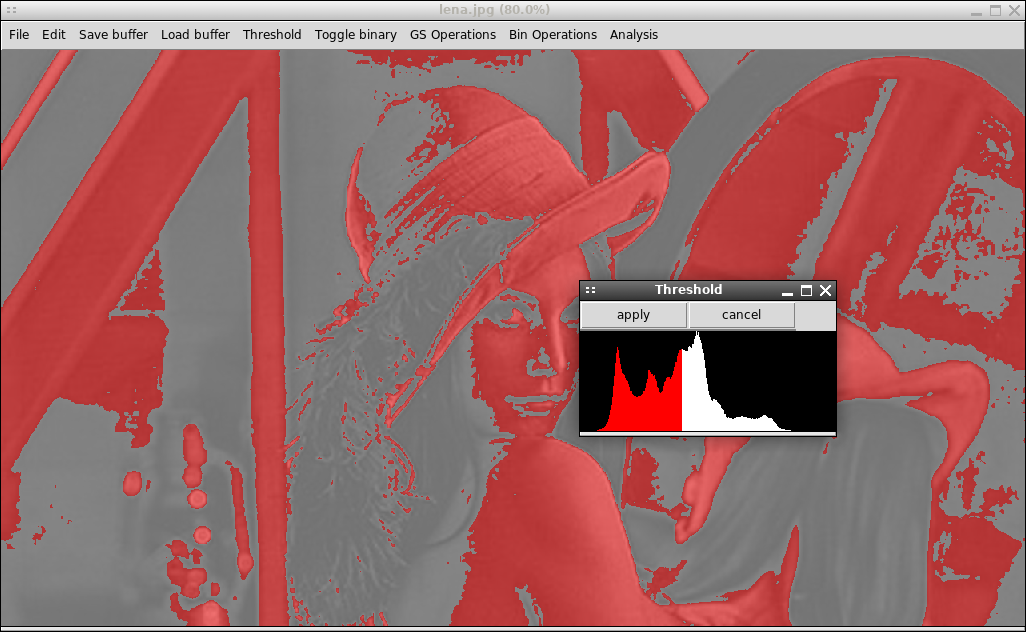
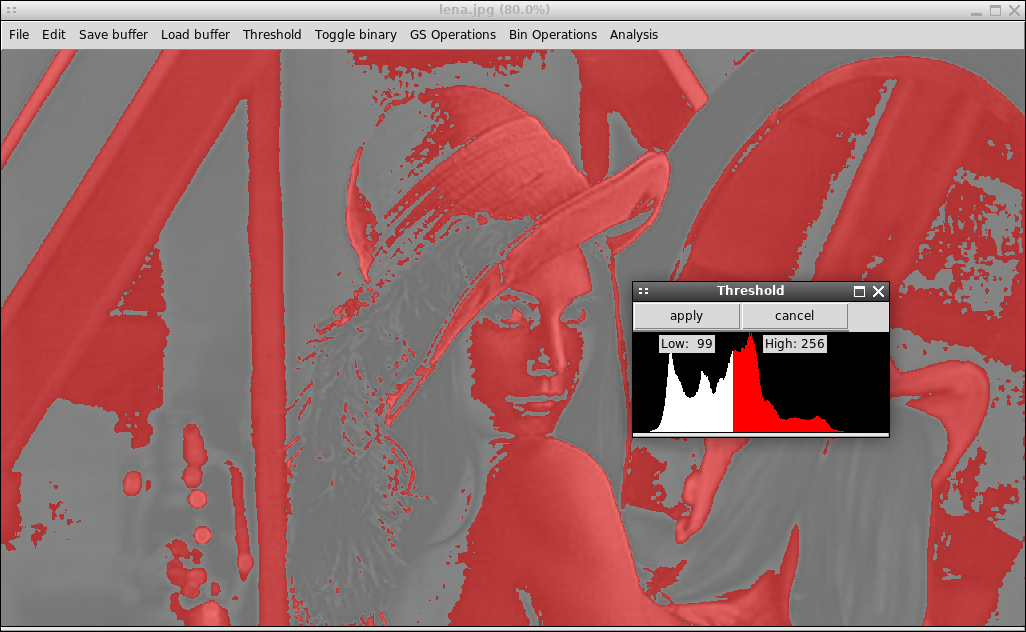
bugfixes, some new features

diff --git a/main.py b/main.py
@@ -19,7 +19,7 @@ import matplotlib.pyplot as plt
 from dialog_window import dialog_window
 from tools import visual_histogram, unit_disk, watershed_pts, grid, \
         PIL_filters, filter, shade_by_size, linbin, logbin, \
-        highest_2nd_derivative
+        highest_2nd_derivative, gs_fft, gs_ifft
 
 logger=True
 
@@ -169,6 +169,14 @@ class Imagewindow:
             self.openfile(filename)
         master.mainloop()
 
+    def clickpt(self, x, y):
+        # Takes event arguments, returns position on image
+        difx = (self.master.winfo_width()-self.resize_ratio*self.gimg.width)
+        dify = (self.master.winfo_height()-self.resize_ratio*self.gimg.height)
+        xout = int((x - (difx>0)*difx/2)/self.resize_ratio)
+        yout = int((y - (dify>0)*dify/2)/self.resize_ratio)
+        return xout, yout
+
     def update(self, saveundo=True):
 
         if saveundo:
@@ -278,8 +286,7 @@ class Imagewindow:
             del draw
 
         def click(event):
-            point_list.append((int(event.x/self.resize_ratio), 
-                int(event.y/self.resize_ratio)))
+            point_list.append(self.clickpt(event.x, event.y))
             point_self()
 
         def undo_pt(event=None):
@@ -341,14 +348,8 @@ class Imagewindow:
                 if self.mval > self.uval:
                     self.uval=self.mval
             elif mv==1:
-                # this gives the default self.mval (cut-off value) as the maximum value position in the histogram
-                # this isn't ideal but it's better than no default value at all
-                #self.mval = self.gimg.histogram().index(max(self.gimg.histogram()))
-                # alternate solution: highest 2nd derivative
-                # if it works create self.logging for this
-                # split into two lines where this function is called if mval is
-                # unchanged
                 self.mval = highest_2nd_derivative(self.gimg)
+            mv_label['text'] = "Low:  "+str(self.mval)
                 
             colors = gold.convert(mode="RGBA").split()
             colors[0].paste(gold.point(
@@ -377,6 +378,7 @@ class Imagewindow:
             self.uval = event.x
             if self.uval<self.mval:
                 self.uval=self.mval
+            uv_label['text'] = "High: "+str(self.uval)
             click(mv=2)
 
         def apply(event=None):
@@ -399,7 +401,11 @@ class Imagewindow:
         tkpi = PIL.ImageTk.PhotoImage(hist_img)
         label_image = Tkinter.Label(histogram_window, image=tkpi)
         label_image.place(x=0,y=30,width=hist_img.size[0],height=hist_img.size[1])
+        mv_label = Tkinter.Label(histogram_window, text = "Low:  "+str(self.mval))
+        uv_label = Tkinter.Label(histogram_window, text = "High: "+str(self.uval))
         
+        mv_label.grid(row=2, column=0)
+        uv_label.grid(row=2, column=1)
         click(mv=1)
         histogram_window.mainloop()
 
@@ -513,19 +519,12 @@ class Imagewindow:
             top.destroy()
             self.update()
             
-        #menubar = Tkinter.Menu(self.master)
-        #menubar.add_command(label="apply", command=apply)
-        #menubar.add_command(label="cancel", command=cancel)
-        #top.config(menu=menubar)
         sqrtbtn = Tkinter.Button(top, text="sqrt", width=10, 
                 command=lambda : transform("sqrt"))
         logbtn = Tkinter.Button(top, text="log", width=10, 
                 command=lambda : transform("log"))
         squarebtn = Tkinter.Button(top, text="square", width=10, 
                 command=lambda : transform("square"))
-        #sqrtbtn.pack()
-        #logbtn.pack()
-        #squarebtn.pack()
         sqrtbtn.grid(row=2, column=0)
         logbtn.grid(row=3, column=0)
         squarebtn.grid(row=4, column=0)
@@ -560,8 +559,7 @@ class Imagewindow:
             ma = np.ndarray.copy(mao)
             tmp = self.bimg.copy()
             if event!=None:
-                x = int(event.x/self.resize_ratio)
-                y = int(event.y/self.resize_ratio)
+                x,y = self.clickpt(event.x, event.y)
                 if ma[y,x]!=0:
                     ma[ma!=ma[y,x]] = 0
                     ma[ma==ma[y,x]] = 1
@@ -753,8 +751,6 @@ class Imagewindow:
 
     def greyscale_arithmetic(self):
         # TODO: Add exception for missing gimg
-        #       Add logger
-        #       
         g_window = dialog_window(self.master)
         fn_string = Tkinter.StringVar()
         fn_string.set("a")
@@ -834,22 +830,14 @@ class Imagewindow:
         self.update()
 
     def fft(self):
-        #Add logging
-        fftvals = np.fft.fftshift(np.fft.fft2(self.gimg))
-        freq = np.abs(fftvals)
-        self.phase = np.angle(fftvals)
-        freq = np.log(freq+np.e)
-        self.fftmax = np.max(freq)
-        freq = freq*255./self.fftmax
+        #Warning: Converting the fft into greyscale (0-255 integers) 
+        #destroys some information
+        freq, self.phase, self.fftmax = gs_fft(self.gimg)
         self.gimg.putdata(freq.flatten())
         self.update()
         if logger:
-            self.logging("fftvals = np.fft.fftshift(np.fft.fft2(gimg))")
-            self.logging("freq = np.log(np.abs(fftvals+np.e))")
-            self.logging("fftmax = np.max(freq)")
-            self.logging("phase = np.angle(fftvals)")
-            self.logging("gimg.putdata((freq*255/fftmax).flatten())")
-            self.logging("# Warning, phase space cannot be modified")
+            self.logging("freq, phase, fftmax = gs_fft(gimg)")
+            self.logging("gimg.putdata(freq)")
 
     def ifft(self):
         try:
@@ -857,16 +845,12 @@ class Imagewindow:
         except AttributeError:
             print "# No phase data available"
             return
-        fftvals = np.array(self.gimg)
-        fftvals = ((np.exp(fftvals*self.fftmax/255))-np.e)
-        ifftvals = np.fft.ifft2(np.fft.ifftshift(fftvals*np.exp(1j*self.phase)))
+        ifftvals = gs_ifft(self.gimg, self.phase, self.fftmax)
         self.gimg.putdata(ifftvals.flatten())
-        self.phase = None
         self.update()
         if logger:
-            self.logging("fftvals = ((np.exp(fftmax/255))-np.e)")
-            self.logging("ifftvals = np.fft.ifft2(np.fft.ifftshift(fftvals*np.exp(1j*phase)))")
-            self.logging("gimg.putdata(ifftvals.flatten())")
+            self.logging("ifftvals = gs_ifft(self.gimg, self.phase, self.fftmax)")
+            self.logging("gimg.putdata(ifftvals)")
     
     def draw_center_circle(self):
         self.show_binary = 1
@@ -908,7 +892,10 @@ class Imagewindow:
         [listbox.insert(Tkinter.END, i) for i in objects]
         listbox.select_set(0)
         listbox.grid(row=2, column=1)
-        draw = PIL.ImageDraw.Draw(self.bimg)
+
+        clear_button = Tkinter.Button(line_dialog, text="Clear",
+                command = lambda x=None: self.draw_clear())
+        clear_button.grid(row=3, column=0)
         pts = [0,0]
         def apply(event=None):
             self.update()
@@ -922,9 +909,11 @@ class Imagewindow:
             line_dialog.destroy()
 
         def pick(event=None, point_num=[0]):
-            pts[point_num[0]] = [int(event.x/self.resize_ratio),int(event.y/self.resize_ratio)]
+            #pts[point_num[0]] = [int(event.x/self.resize_ratio),int(event.y/self.resize_ratio)]
+            pts[point_num[0]] = self.clickpt(event.x,event.y)
             point_num[0] += 1
             if point_num[0]==2:
+                draw = PIL.ImageDraw.Draw(self.bimg)
                 if objects[listbox.curselection()[0]]=="line":
                     draw.line(pts[0]+pts[1], fill=255*add.get())
                 elif objects[listbox.curselection()[0]]=="ellipse":
@@ -933,21 +922,21 @@ class Imagewindow:
                     draw.rectangle(pts[0]+pts[1], fill=255*add.get())
                 #Add logging here, maybe a buffer?
                 point_num[0] = 0
-                self.update(False)
-            
+                self.update()
+
         self.master.bind("<ButtonPress-1>", pick)
         line_dialog.setcancel(cancel)
         line_dialog.setapply(apply)
 
-    def draw_clear(self):
+    def draw_clear(self, update=True):
          #There may be a better way of doing this, give it thought later
          self.bimg = self.bimg.convert(mode='L').point(lambda p: 0).convert(mode='1')
-         self.update()
+         self.update(True)
             
     def logging(self, logstr, func=None):
         #We may want to use some other type of logging in the future
         print logstr
-
+    
         
 root = Tkinter.Tk()
 root.geometry('+%d+%d' % (100,100))

diff --git a/tools.py b/tools.py
@@ -27,18 +27,31 @@ def visual_histogram(img, lowval=None, highval=None):
     del draw
     return histimg
 
+def aver(hist, length):
+    avg = len(hist)*[0]
+    avval = 0
+    for i in range(length, len(hist)):
+        avval += hist[i]-hist[i-length]
+        avg[i-length/2] = avval/length
+    return avg
+
 def highest_2nd_derivative(img):
     # Input: List of length 256
-    # Output: Point of maximum second derivative
+    # Output: Point of maximum approximated second derivative
     deg = 4
-    def const(n):
-        return n*(n-1)
+    d = 2
+    padlength = 20
     hist = img.histogram()
     p = np.polyfit(range(256), hist, deg)
-    #pl = [12*p[0]*i**2 + 6*p[1]*i for i in range(256)]
-    pl = [sum([const(n)*p[deg-n]*i**(n-2) for n in range(3, deg+1)]) 
-            for i in range(256)]
-    return pl.index(max(pl))
+    pd = [p[n]*reduce(lambda x,y: x*y, range(deg-n-d+1,deg-n+1)) for n in range(deg-d+1)]
+
+    leftpad = padlength*[0]
+    rightpad = padlength*[0]
+    pl = leftpad + [sum([pd[deg-d-n]*i**(n) for n in range(0, deg+1-d)]) 
+            for i in range(256)] + rightpad
+    pl = aver(pl,40)[padlength:256+padlength]
+    return pl.index(max(pl[padlength:255+padlength]))
+
 
 
 def unit_disk(n):
@@ -122,6 +135,21 @@ def shade_by_size(img):
     nimg = PIL.Image.new(mode="L", size=img.size)
     nimg.putdata(tot.flatten())
     return nimg
+
+def gs_fft(img):
+    fftvals = np.fft.fftshift(np.fft.fft2(img))
+    freq = np.abs(fftvals)
+    phase = np.angle(fftvals)
+    freq = np.log(freq+np.e)
+    fftmax = np.max(freq)
+    freq = freq*255./fftmax
+    return freq, phase, fftmax
+
+def gs_ifft(img, phase, fftmax):
+    fftvals = np.array(img)
+    fftvals = ((np.exp(fftvals*fftmax/255))-np.e)
+    ifftvals = np.real(np.fft.ifft2(np.fft.ifftshift(fftvals*np.exp(1j*phase))))
+    return ifftvals
 
 def linbin(img, bins = 12):
     ma, n = scipy.ndimage.measurements.label(np.array(img.convert("L")))
